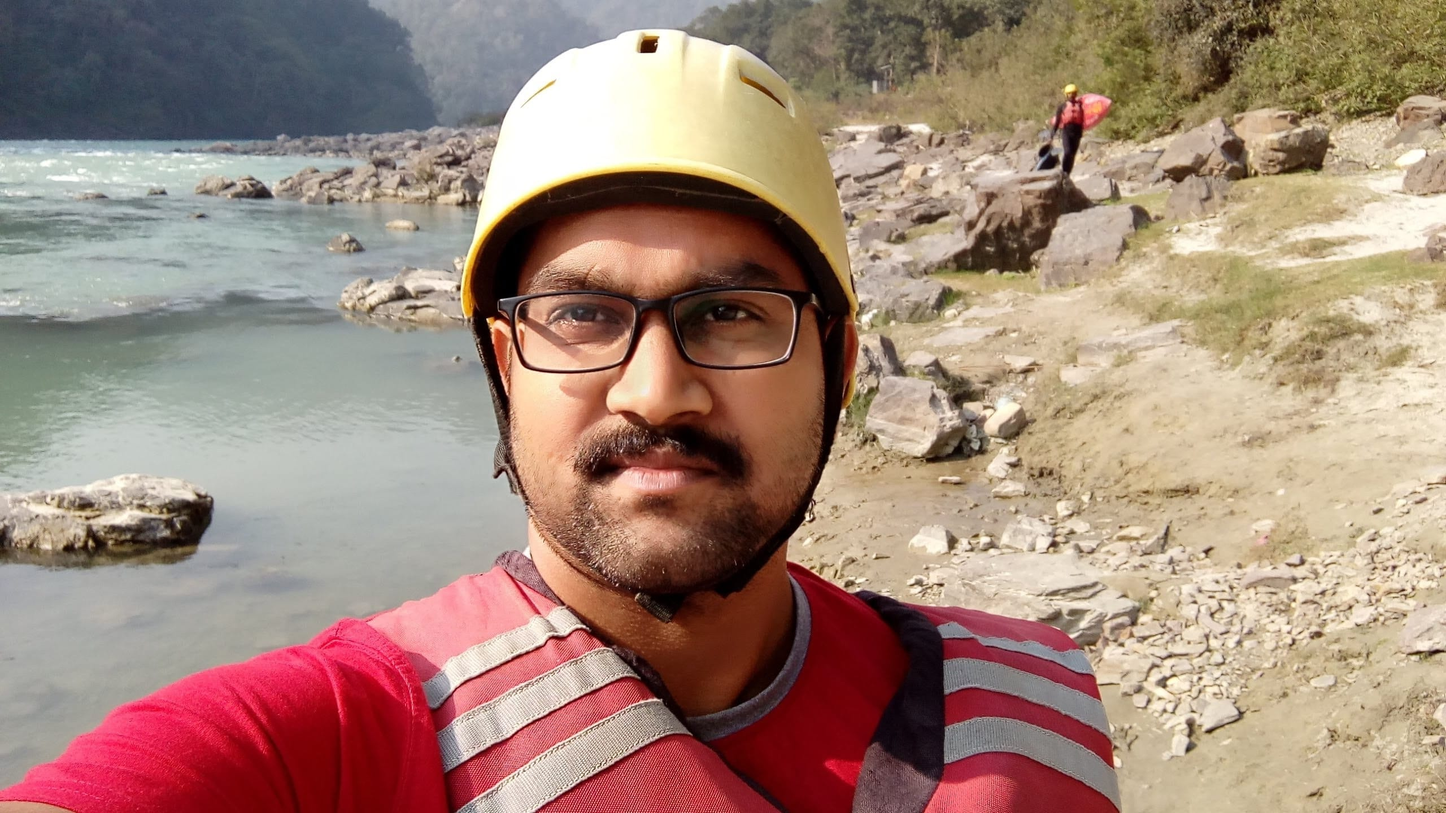
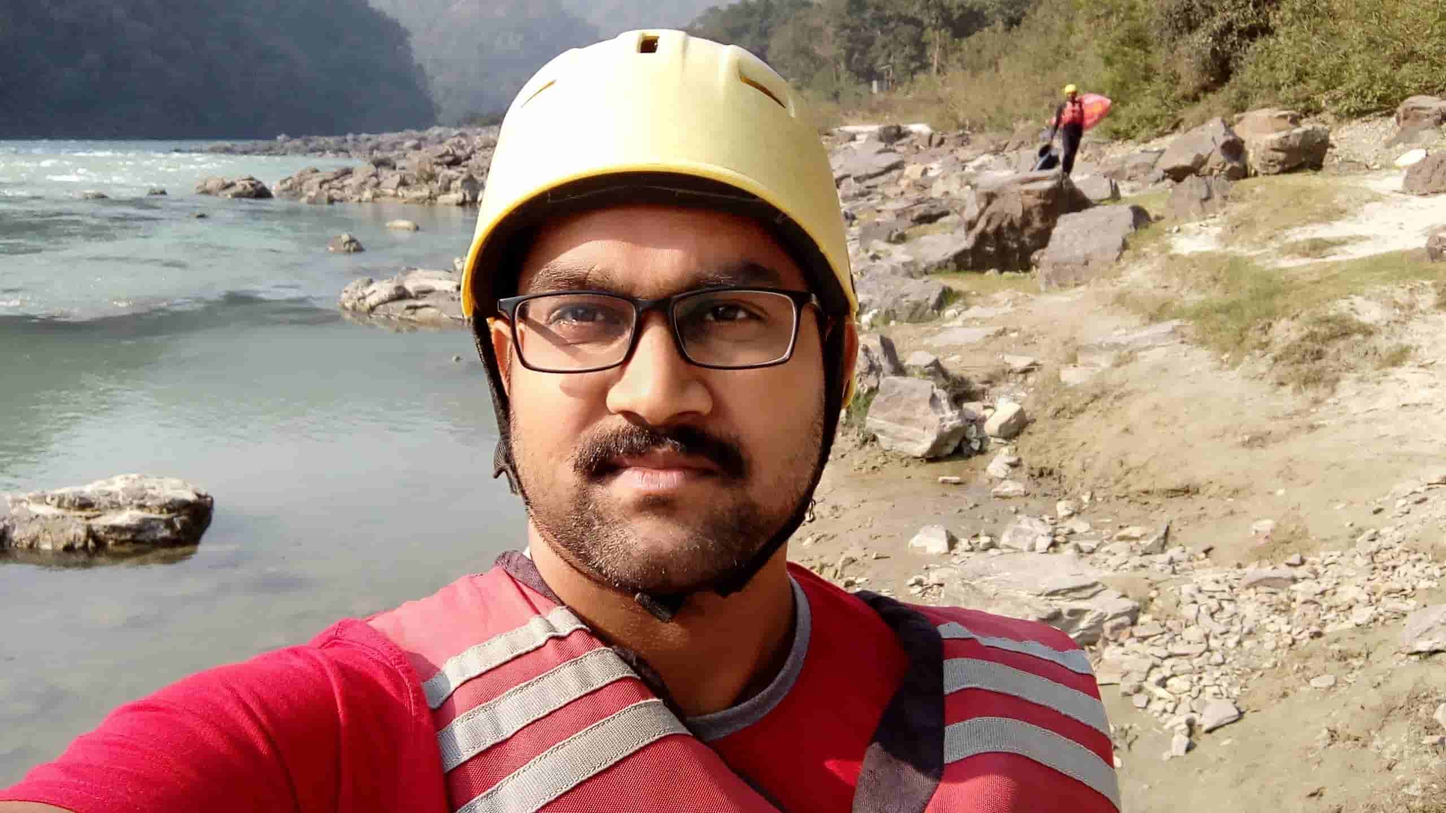
shrinks speaker pics

diff --git a/app/data/schedule.js b/app/data/schedule.js
@@ -24,7 +24,7 @@ export default [
     speaker: 'Bhuvaneshwari K',
     handle: '',
     profileLink: '',
-    profilePic: 'assets/images/meetup-4-sept-2020/bk.png',
+    profilePic: 'assets/images/meetup-4-sept-2020/bk.jpg',
     startTime: "- am",
     endTime: "- am",
     title: "Contextual Component Design"
